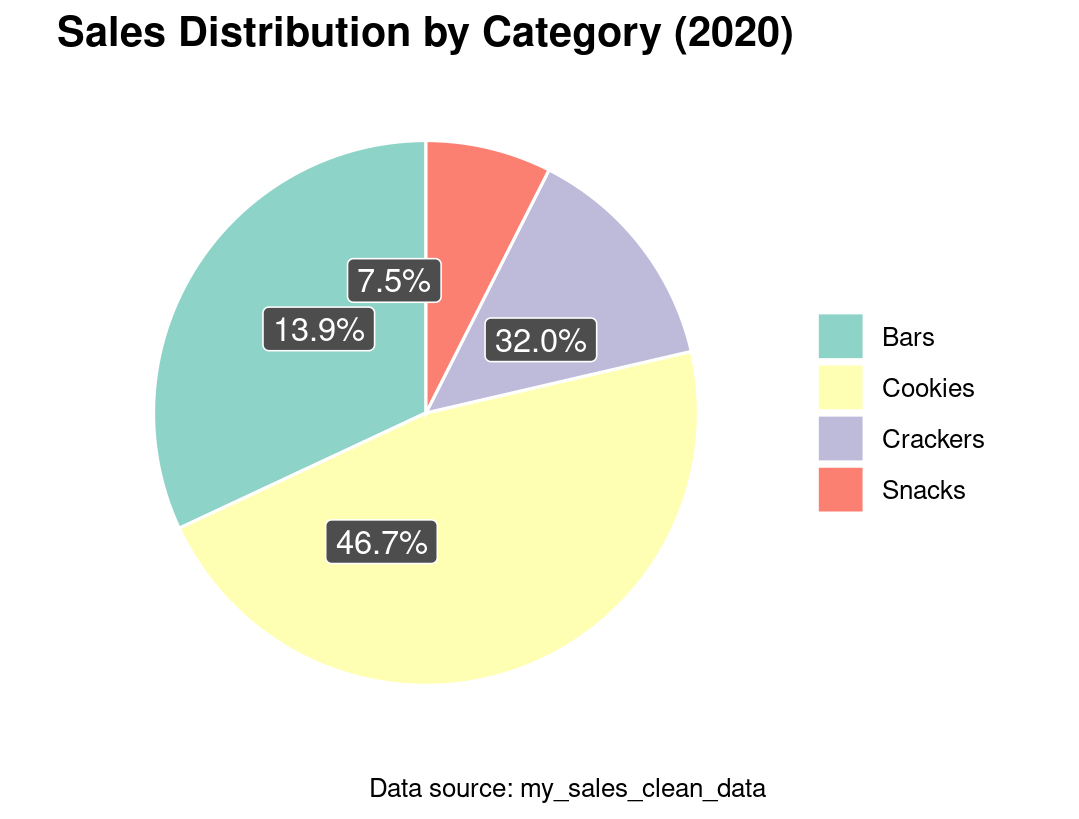
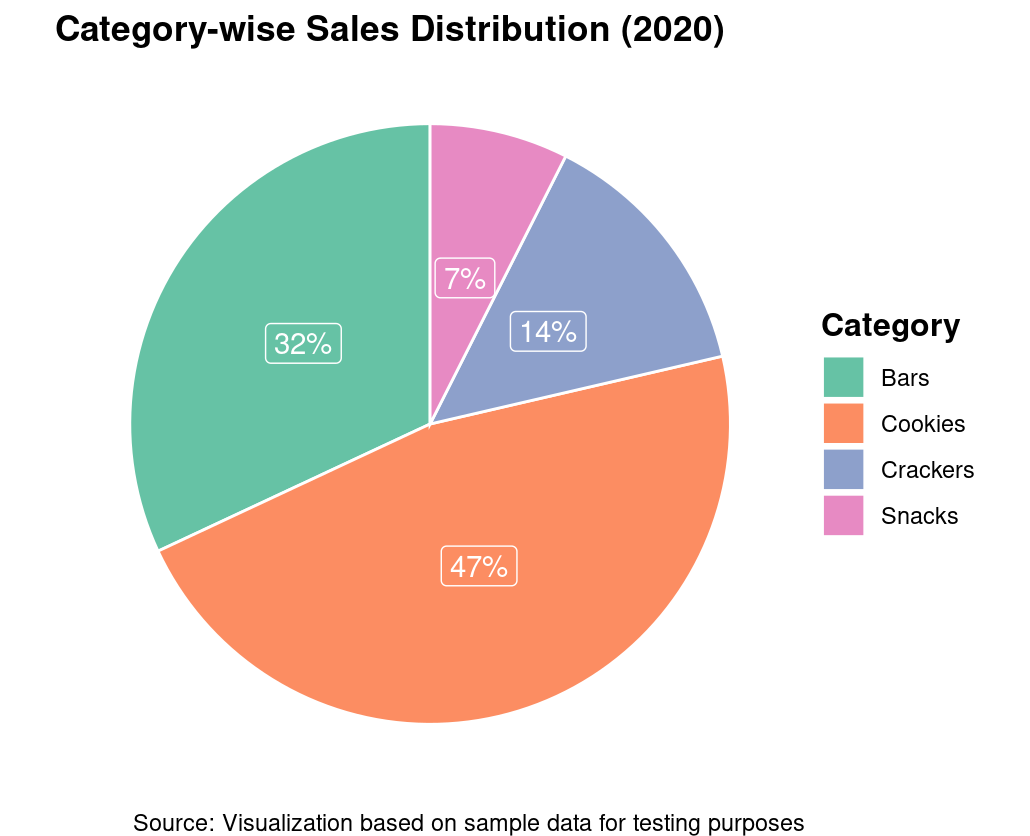
Commit

diff --git a/README.md b/README.md
@@ -365,7 +365,8 @@ There's a significant drop in sales volume between the top performers and lower-
 > 4. Banana has the lowest sales volume of all products, suggesting it might be worth reconsidering its place in the product lineup.
 
 **Recommendations**:
-A key recommendation would be to investigate what makes Carrot and Oatmeal Raisin products so successful - whether it's marketing, pricing, placement, or product quality - and apply those learnings to boost performance of lower-selling items. Additionally, given Banana's poor performance, resources might be better allocated to expanding successful product lines or developing new flavors based on the top performers' characteristics.
+> 1. A key recommendation would be to investigate what makes Carrot and Oatmeal Raisin products so successful - whether it's marketing, pricing, placement, or product quality - and apply those learnings to boost performance of lower-selling items. 
+> 2. Additionally, given Banana's poor performance, resources might be better allocated to expanding successful product lines or developing new flavors based on the top performers' characteristics.
 
 **2. Sales by City by Category (wrap)**
 ```r
@@ -385,7 +386,7 @@ ggplot(data = my_sales_clean_data) +
     y = "Total Sales ($)"
   )
 ```
-![Text](Images/Sales_City_Category _wrap.png)
+![Text](Images/Sales_City_Category_wrap.png)
 
 Based on the sales data visualization across four major cities, here are the key insights:
 
@@ -402,106 +403,147 @@ Based on the sales data visualization across four major cities, here are the key
 **Recommendations**
 A potential opportunity would be to investigate why the West Coast cities (Los Angeles and San Diego) have significantly lower cracker sales compared to Boston, and whether there are regional preferences that could inform product strategy.
 
-**Sales by City by Category(grid)**
+**3. Sales by Order date**:
 ```r
+my_sales_clean_data %>%
+  mutate(month_name = month(order_date, label = TRUE), saleyear = year(order_date)) %>%
+  group_by(saleyear, month_name) %>%
+  summarise(total_sales_by_date = sum(total_price)) %>%
+  ggplot(aes(x = month_name, y = total_sales_by_date, color = factor(saleyear), group = factor(saleyear))) +
+  geom_line(size = 1.2) +  # Adjust line thickness
+  scale_color_manual(values = c("blue", "green", "red", "purple", "orange")) +  # Custom color palette
+  theme_minimal() +  # Use minimal theme for a cleaner look
+  theme(
+    axis.text.x = element_text(angle = 45,size = 12, hjust = 1),
+    axis.text.y = element_text(size = 12),
+    axis.title = element_text(size = 14, face = "bold"),
+    legend.title = element_text(size = 12, face = "bold"),
+    legend.text = element_text(size = 11),
+    plot.title = element_text(size = 14, face = "bold"),
+    plot.caption = element_text(size = 8,color = "dim gray")
+  ) +
+  labs(
+    title = "Monthly Sales (Year-over-Year)",
+    caption = "Source: Visualization based on sample data for testing purposes",
+    x = "Month",
+    y = "Total Sales ($)"
+  )+
+  guides(color = guide_legend(title = "Year"))
 
 ```
-![Sales by Product](Images/Sales_by_City_Category(grid).png)
-
-Looking at the sales breakdown by city and product category, here are the key insights:
-
-> 1. Product Mix Analysis:
-- Cookies are dominated by Chocolate Chip and Oatmeal Raisin across all cities
-- Bars category shows a consistent mix of Carrot, Bran, and Arrowroot
-- Crackers and Snacks categories have much lower sales overall and simpler product mix
-
-> 2. Regional Patterns:
-- Boston shows the strongest performance overall, especially in Cookies
-- New York and Los Angeles have similar patterns but at lower volumes than Boston
-- San Diego consistently shows the lowest sales across all categories
-
-> 3. Notable Opportunities:
-- The success of Chocolate Chip and Oatmeal Raisin cookies in Boston could be studied and replicated in other cities
-- The significant drop between East Coast (Boston/NY) and West Coast (LA/San Diego) performance suggests potential for market development
-- Banana products show consistently low performance across all categories and cities, suggesting a need for product review
-
-**Recommendations**:
-Focus on understanding why Boston's market performs so well and apply those learnings to boost performance in West Coast markets, particularly San Diego.
-
-**4. Sales by Order date**:
-```r
-
-```
-![Sales by Product](Images/Monthly_sales_comparison.png)
+![Text](Images/Monthly_sales_YOY.png)
 
 Looking at the year-over-year monthly sales comparison between 2020 and 2021, here are the key insights:
 
-> 1. Seasonal Patterns:
-- Both years show significant monthly fluctuations
-- Peak sales occurred in June 2020 ($2,400) and November 2021 ($2,000)
-- Both years tend to have lower sales in July-August period
+>  Seasonal Patterns:
+> 1. Both years show significant monthly fluctuations
+> 2. Peak sales occurred in June 2020 ($2,400) and November 2021 ($2,000)
+> 3. Both years tend to have lower sales in July-August period
 
-> 2. Year-over-Year Changes:
-- Sales patterns shifted significantly between 2020 and 2021
-- 2020 had a notable spike in June that wasn't repeated in 2021
-- 2021 showed stronger performance in Q4 (October-December) compared to 2020
-- Early months (January-March) were relatively stable across both years
+> Year-over-Year Changes:
+> 1. Sales patterns shifted significantly between 2020 and 2021
+> 2. 2020 had a notable spike in June that wasn't repeated in 2021
+> 3. 2021 showed stronger performance in Q4 (October-December) compared to 2020
+> 4. Early months (January-March) were relatively stable across both years
 
-> 3. Notable Trends:
-- 2020 showed more volatile sales patterns with sharp peaks and troughs
-- 2021 demonstrated more consistent sales levels, especially in the second half
-- The lowest sales point shifted from February 2020 to September 2021
+>  Notable Trends:
+> 1. 2020 showed more volatile sales patterns with sharp peaks and troughs
+> 2. 2021 demonstrated more consistent sales levels, especially in the second half
+> 3. The lowest sales point shifted from February 2020 to September 2021
 
 **Recommendation**:
-- The more stable pattern in 2021 might indicate improved inventory management or more consistent marketing efforts
-- The shift in peak sales months suggests a need for flexible resource allocation throughout the year
+- The more constant trend in 2021 could be a sign of better inventory control or more persistent marketing initiatives.
+- The change in the months with the highest sales indicates that resources must be allocated flexibly all year long
 - Understanding the success factors behind the strong Q4 2021 performance could help in planning future strategies
 
-**5. Month Sales By Product(2020)**
+**4. Month Sales By Product(2020)**
 ```r
+my_sales_clean_data %>%
+  mutate(month_name = month(order_date, label = TRUE), saleyear = year(order_date)) %>%
+  filter(saleyear == 2020) %>%
+  group_by(saleyear, month_name, product) %>%
+  summarise(total_sales_by_date = sum(total_price)) %>%
+  ggplot(aes(x = month_name, y = total_sales_by_date, color = product, group = product)) +
+  geom_line(linewidth = 1.2) +  # Adjust line thickness
+  scale_color_manual(values = c("blue", "green", "red", "purple", "orange", "pink", "brown", "gray", "yellow" )) +  
+  theme_minimal() +  # Clean minimal theme
+  theme(
+    axis.text.x = element_text(angle = 45, size = 12, hjust = 1),  # Customize x-axis labels
+    axis.text.y = element_text(size = 12),  # Customize y-axis labels
+    axis.title = element_text(size = 14, face = "bold"),  # Bold axis titles
+    legend.title = element_text(size = 12, face = "bold"),  # Bold legend title
+    legend.text = element_text(size = 11),  # Adjust legend text size
+    plot.title = element_text(size = 14, face = "bold"),  # Title styling
+    plot.caption = element_text(size = 8, color = "dim gray")  # Caption styling
+  ) +
+  labs(
+    title = "Monthly Sale Trend by Product Category",
+    caption = "Source: Visualization based on sample data for testing purposes",
+    x = "Month",
+    y = "Total Sales ($)"
+  ) +
+  guides(color = guide_legend(title = "Product"))
 
 ```
-![Sales by Product](Images/Monthly_sales_trend_cat_2020.png)
+![Text](Images/Monthly_saletrend_product.png)
 
 Looking at the monthly sales trends across product categories in 2020, here are the key insights:
 
-> 1. Category Rankings and Patterns:
-> - Cookies (coral line) is the top performer, showing peaks of around $1,200 in December and consistent leadership throughout the year
-> - Bars (mint green line) maintains second position with more moderate sales around $400-700
-> - Crackers (blue line) shows an interesting spike in January but generally lower performance afterward
-> - Snacks (pink line) consistently shows the lowest sales, rarely exceeding $200 monthly
+> High Variability in Sales:
+> 1. Certain product categories like "Arrowroot" and "Whole Wheat" show significant spikes in sales during specific months.
+> - Products such as "Oatmeal Raisin" and "Potato Chips" maintain relatively steady, lower sales levels throughout the year.
 
-> 2. Notable Trends:
-> - A a synchronised peak across categories in June, with Cookies and Bars showing a robust performance
-> - There is a general slowdown in all categories over the July–August season
-> - Cookies exhibit considerable volatility, with notable rises in March, June, and December.
-> - Cookies had a strong year-end result, but other categories saw a dip.
+>  Seasonal Trends:
+> 1. There appears to be a sales peak for "Arrowroot" and "Carrot" in the later months (e.g., November and December), which could be attributed to seasonal demand or promotions.
+> 2. Some products like "Chocolate Chip" and "Banana" experience fluctuations without a clear seasonal trend.
 
 **Recommendations**:
-- Given Cookies' steady success, there may be room to grow this product line.
-- Targeted marketing or promotional tactics may be necessary during the summer slowdown.
-- The huge drop in Crackers after January suggests the need to investigate this category's performance difficulties.
-- Cookies seem to do especially well during the holiday season (December), indicating seasonal opportunities.
+- Focus on maximizing sales for high-performing products like "Arrowroot" and "Whole Wheat" during peak months with targeted promotions and sufficient stock. 
+- Investigate seasonal spikes to replicate successful strategies across other products. 
+- Revitalize low-performing items like "Pretzels" and "Potato Chips" through rebranding, bundling, or customer research. Optimize inventory and marketing efforts based on sales trends, and use digital campaigns to enhance product visibility and engagement.
 
-**6. Month Sales By Category**
+**5. Month Sales By Category(multiple lines) (2020)**
 ```r
-
+my_sales_clean_data %>%
+  mutate(month_name = month(order_date, label = TRUE), saleyear = year(order_date)) %>%
+  filter(saleyear == 2020) %>%
+  group_by(month_name, category) %>%
+  summarise(total_sales = sum(total_price), .groups = "drop") %>%
+  ggplot(aes(x = month_name, y = total_sales, color = category, group = category)) +
+  geom_line(linewidth = 1.2) +
+  theme_minimal() +
+  theme(
+    axis.text.x = element_text(angle = 45, hjust = 1, size = 12),  # Customize x-axis labels
+    axis.text.y = element_text(size = 12),  # Customize y-axis labels
+    axis.title = element_text(size = 14, face = "bold"),  # Bold axis titles
+    legend.title = element_text(size = 12, face = "bold"),  # Bold legend title
+    legend.text = element_text(size = 11),  # Adjust legend text size
+    plot.title = element_text(size = 14, face = "bold"),  # Title styling
+    plot.caption = element_text(size = 8, color = "dim gray")  # Caption styling
+  ) +
+  labs(
+    title = "Monthly Sales by Category (2020)",
+    caption = "Source: Visualization based on sample data for testing purposes",
+    x = "Month",
+    y = "Total Sales ($)",
+    color = "Category"
+  )
 ```
-![Sales by Product](Images/Monthly_sales_trend_cat(2020).png)
+![Sales by Product](Images/Monthly_sales_cat_20.png)
 
 Looking at the monthly sales trends by product category for 2020, here are the key insights:
 
-> 1.Category Performance:
-- Cookies routinely generates revenue, peaking at over $1,000 in March and December
-- Bars shows steady performance as the second-best category, typically ranging between $400-$600
-- Crackers had a great start in January (around $800), but saw a big fall after that
-- Snacks have the lowest but most consistent sales, circling around $200
+> Category Performance:
+> 1.Cookies routinely generates revenue, peaking at over $1,000 in March and December
+> 2. Bars shows steady performance as the second-best category, typically ranging between $400-$600
+> 3. Crackers had a great start in January (around $800), but saw a big fall after that
+> 4. Snacks have the lowest but most consistent sales, circling around $200
 
-> 2.Seasonal Patterns:
-- June sees a noticeable mid-year peak for the majority of categories.
-- Summertime (July–August) sales are lower in every category.
-- December's strong year-end results, especially for Cookies
-- Performance in all categories is moderate throughout the spring (March–April).
+> Seasonal Patterns:
+> 1. June sees a noticeable mid-year peak for the majority of categories.
+> 2. Summertime (July–August) sales are lower in every category.
+> 3. December's strong year-end results, especially for Cookies
+> 4. Performance in all categories is moderate throughout the spring (March–April).
 
 **Recommendations**:
 1. Analyse the elements that contributed to Cookies' strong performance in order to see if they may be applied to other categories.
@@ -511,6 +553,30 @@ Looking at the monthly sales trends by product category for 2020, here are the k
 
 **Month Sales By Category (Create monthly sales pie chart by category for 2020)**
 ```r
+my_sales_clean_data %>%
+  filter(year(order_date) == 2020) %>%
+  group_by(category) %>%
+  summarise(total_sales_by_cat = sum(total_price), .groups = "drop") %>%
+  mutate(
+    total_sales_by_cat_perc = total_sales_by_cat / sum(total_sales_by_cat),
+    labels = percent(total_sales_by_cat_perc, accuracy = 1L)
+  ) %>%
+  ggplot(aes(x = "", y = total_sales_by_cat_perc, fill = category)) +
+  geom_col(color = "white") +  
+  geom_label(aes(label = labels), 
+             color = "white", 
+             position = position_stack(vjust = 0.5), 
+             show.legend = FALSE) +
+  coord_polar(theta = "y") +
+  scale_fill_brewer(palette = "Set2") +  
+  theme_void() +
+  labs(title = "Category-wise Sales Distribution (2020)", 
+  caption = "Source: Visualization based on sample data for testing purposes",
+  fill = "Category") +
+  theme(
+    plot.title = element_text(face = "bold"), 
+    legend.title = element_text(size = 12, face = "bold")
+  )
 
 ```
 ![Sales by Product](Images/Sales_distribution_category.png)
@@ -518,7 +584,7 @@ Looking at the monthly sales trends by product category for 2020, here are the k
 Looking at the sales distribution by product category for 2020, here are the key insights:
 
 > 1. Category Performance:
-- The product mix is dominated by cookies, which account for 46.7% of total sales.
+- The product mix is dominated by cookies, which account for 47.0% of total sales.
 - At 32.0%, crackers are a powerful secondary category.
 - Bars make up 13.9% of sales, which is a moderate contribution.
 - At 7.5%, snacks have the smallest share.
